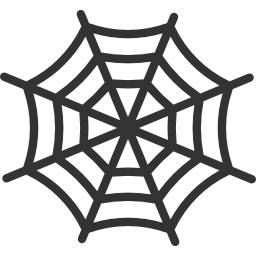
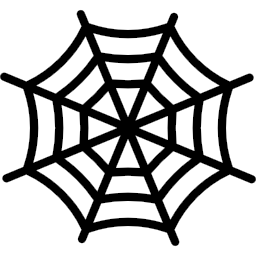
new centipede move

Changed region(s): [[0.0, 0.0312, 1.0, 0.9688]]

diff --git a/client/styles/pieces.scss b/client/styles/pieces.scss
@@ -67,6 +67,8 @@ $types: ant beetle centipede grasshopper lady_bug mosquito pill_bug queen spider
     background-size: contain;
     background-position: center;
     background-repeat: no-repeat;
+    position: relative;
+    z-index: 1;
   }
 
   &.gray {
@@ -75,6 +77,48 @@ $types: ant beetle centipede grasshopper lady_bug mosquito pill_bug queen spider
       opacity: 0.85;
     }
   }
+}
+
+.rule-venom_centipede .piece.type-centipede:before,
+.type-venom_centipede:before {
+  background-image: url(../images/pieces/venom_centipede.png);
+}
+
+.theme-carbon {
+  &.rule-venom_centipede .piece.type-centipede:before,
+  .type-venom_centipede:before {
+    background-image: url(../images/pieces/venom_centipede_dark.png);
+  }
+}
+
+.rule-spiderwebs .piece.type-spider:after,
+.rule-super_grasshopper .piece.type-grasshopper:after {
+  content: '';
+  display: block;
+  width: 80%;
+  height: 80%;
+  background-size: contain;
+  background-position: center;
+  background-repeat: no-repeat;
+  position: absolute;
+  top: 50%;
+  left: 50%;
+  transform: translate(-50%, -50%);
+  opacity: 0.1;
+}
+
+.rule-spiderwebs .hex-player_2.piece.type-spider:after,
+.rule-super_grasshopper .hex-player_2.piece.type-grasshopper:after {
+  filter: invert(1);
+  opacity: 0.15;
+}
+
+.rule-spiderwebs .piece.type-spider:after {
+  background-image: url('../images/trap.png');
+}
+
+.rule-super_grasshopper .piece.type-grasshopper:after {
+  background-image: url('../images/blockchain.png');
 }
 
 .piece.type-basics,
@@ -111,8 +155,12 @@ $types: ant beetle centipede grasshopper lady_bug mosquito pill_bug queen spider
   background-image: url('../images/cancel.png');
 }
 
-.piece.type- {
-  &super_grasshopper, &spiderwebs, &no_rules {
+.piece.type-unlimited:before {
+  background-image: url('../images/endless.png');
+}
+
+.hex-player_2.piece.type- {
+  &super_grasshopper, &spiderwebs, &no_rules, &unlimited {
     &:before {
       filter: invert(1);
     }

diff --git a/client/game/help.js b/client/game/help.js
@@ -12,6 +12,18 @@ const ifRule = (rule, text) => (board) => {
   )
 }
 
+const ifNotRule = (rule, text) => (board) => {
+  const className = board.rules[rule] ? 'line-through' : ''
+  return (
+    <>
+      <span className={className}>{text}</span>
+      {' (without '}
+      <b>{rule}</b>
+      {')'}
+    </>
+  )
+}
+
 const spiderwebs = ifRule(
   'spiderwebs',
   'If an ant touches a spider while moving around the board It must stop. This does not apply to spiders that ants are touching at the start of the turn. The ant must take the shorter path.',
@@ -85,9 +97,16 @@ const dragonfly = [
 ]
 
 const centipede = [
-  _along('centipede'),
-  special(
-    'The centipede can swap spaces with an adjacent piece as long as removing both pieces would not break the one-hive rule.',
+  ifNotRule('venom_centipede', _along('centipede')),
+  ifNotRule(
+    'venom_centipede',
+    special(
+      'The centipede can swap spaces with an adjacent piece as long as removing both pieces would not break the one-hive rule.',
+    ),
+  ),
+  ifRule(
+    'venom_centipede',
+    special('The centipede swaps can swap with any piece 3 tiles away which is not in a stack.'),
   ),
 ]
 

diff --git a/client/components/About.js b/client/components/About.js
@@ -7,7 +7,7 @@ export default function About() {
       <ul className="browser-default">
         <li>
           {
-            'Game rules and (most) design elements originated from the borad game Hive by Jhon Yianni.'
+            'Game rules and (most) design elements originated from the borad game Hive by Jhon Yianni. '
           }
           <a href="https://boardgamegeek.com/forums/thing/2655/hive">
             Learn more at Board Game Geek
@@ -47,12 +47,8 @@ export default function About() {
           <a href="https://www.flaticon.com/" title="Flaticon">
             www.flaticon.com
           </a>
-          {' (spider webs and super grasshopper icons respectively)'}
+          {' (spiderweb/mobius-strip and super grasshopper icons respectively)'}
         </li>
-        {/* Might eventually switch to "marble" tiles... not sure */}
-        {/* <a href="https://www.freepik.com/free-photos-vectors/texture"> */}
-        {/*   Texture photos created by freepik - www.freepik.com */}
-        {/* </a> */}
       </ul>
     </div>
   )

diff --git a/client/game/NewGame.js b/client/game/NewGame.js
@@ -47,6 +47,10 @@ const getSchema = (room_name) => {
             title: 'Super Grasshoppper',
             type: 'boolean',
           },
+          venom_centipede: {
+            title: 'Venom Centipede',
+            type: 'boolean',
+          },
           no_rules: {
             title: 'No Rules',
             type: 'boolean',
@@ -93,6 +97,12 @@ const uiSchema = {
     super_grasshopper: {
       classNames: 'has-help',
       'ui:help': _help('The grasshopper can make unlimited jumps per turn.'),
+    },
+    venom_centipede: {
+      classNames: 'has-help',
+      'ui:help': _help(
+        'The centipede swaps with a piece 3 on-hive tiles away (Hive Venom variant).',
+      ),
     },
     unlimited: {
       classNames: 'has-help',

diff --git a/client/screens/NewGameRedirect.js b/client/screens/NewGameRedirect.js
@@ -1,12 +1,11 @@
 import React from 'react'
 import { Redirect } from 'react-router-dom'
-import Form from '@unrest/react-jsonschema-form'
 
 import useGame from '../game/useGame'
 import useColyseus from '../useColyseus'
 import Wrapper from './Wrapper'
 
-export default function NewGameRedirect({match}) {
+export default function NewGameRedirect({ match }) {
   const { room_name } = match.params
   const { board, endGame } = useGame(room_name)
   const colyseus = useColyseus()
@@ -17,7 +16,6 @@ export default function NewGameRedirect({match}) {
     is_host && colyseus.send(room_name, 'clearBoard')
     endGame()
   }
-  console.log(board)
   if (!board) {
     return <Redirect to={url} />
   }

diff --git a/client/screens/Wrapper.js b/client/screens/Wrapper.js
@@ -1,5 +1,5 @@
 import React from 'react'
 
-export default function Wrapper({children}) {
+export default function Wrapper({ children }) {
   return <div className="flex-grow flex items-center justify-center relative">{children}</div>
 }
